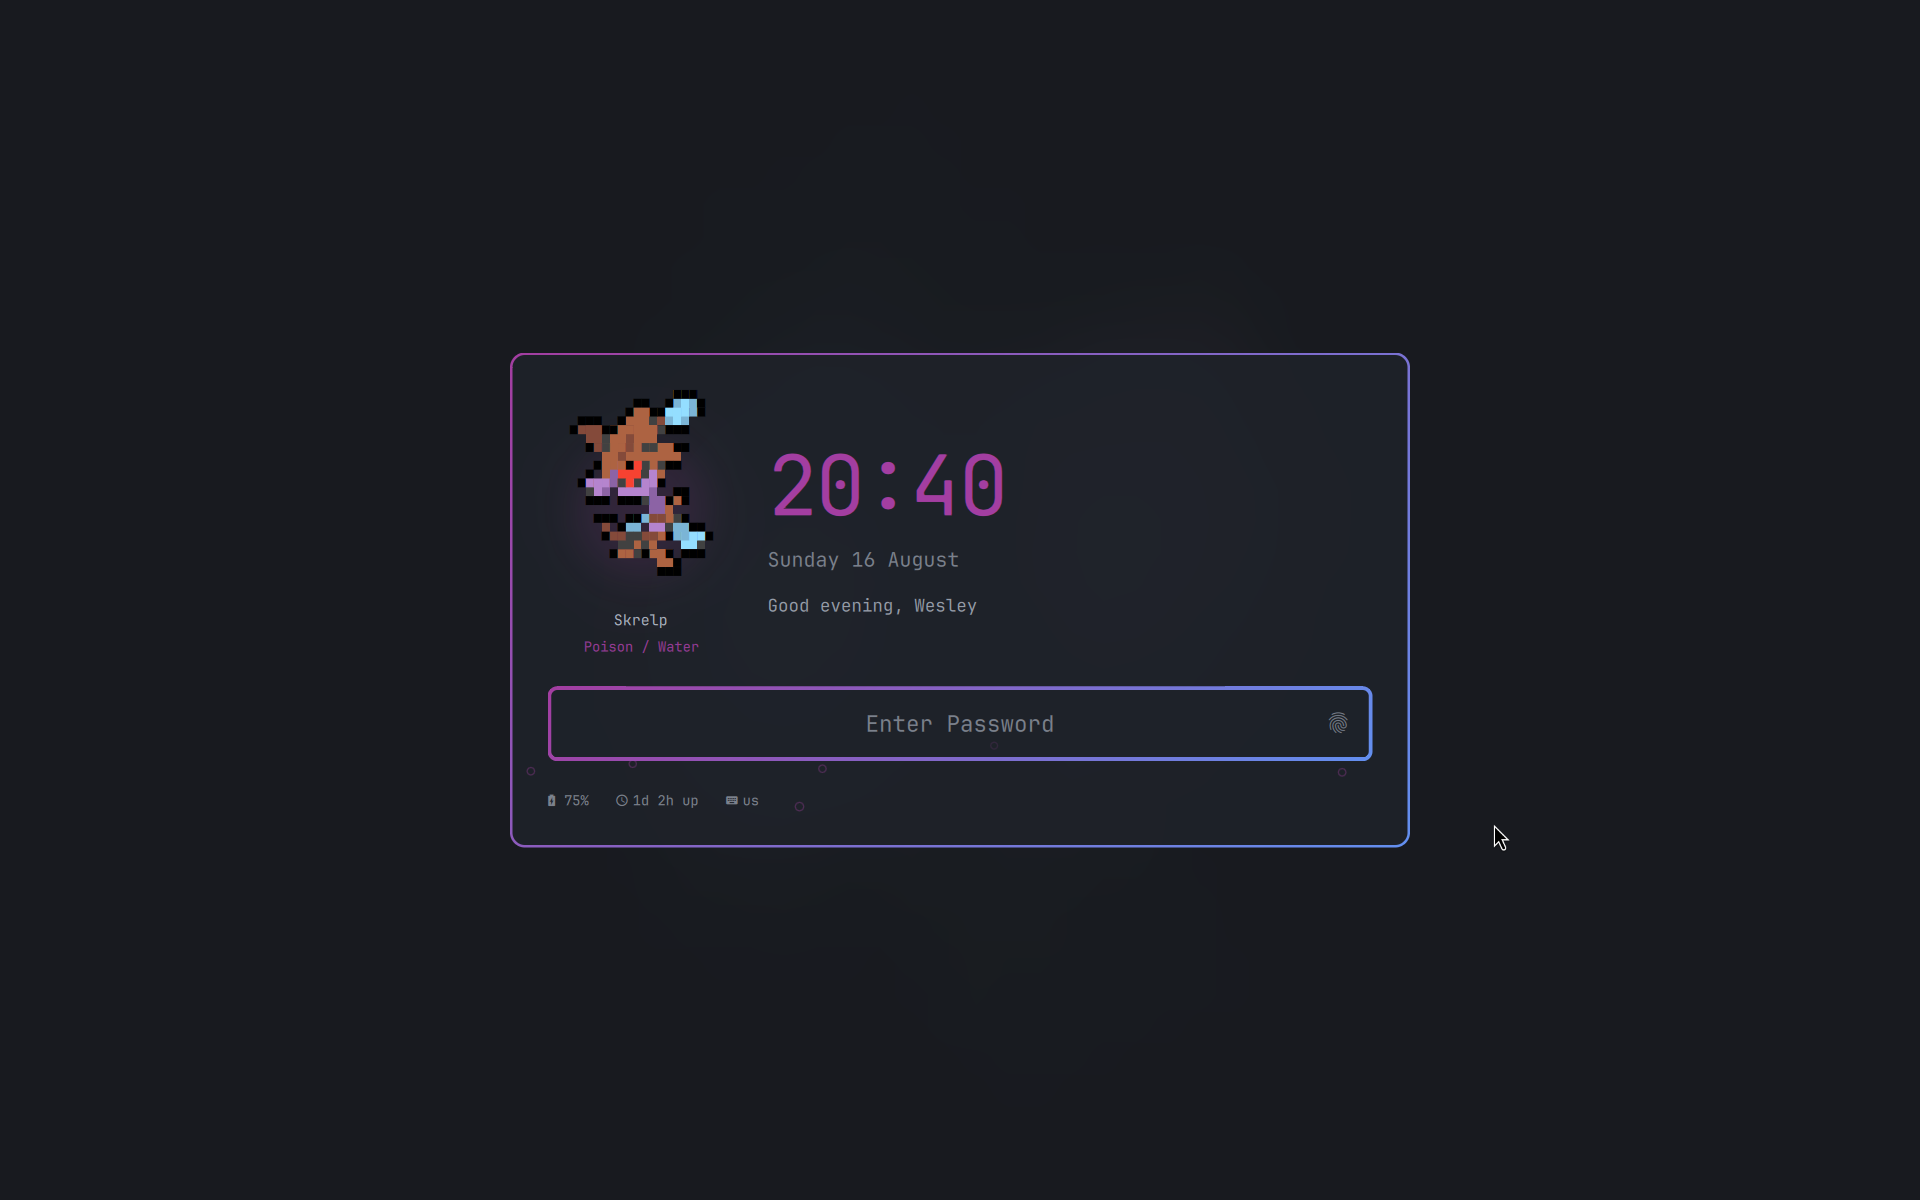
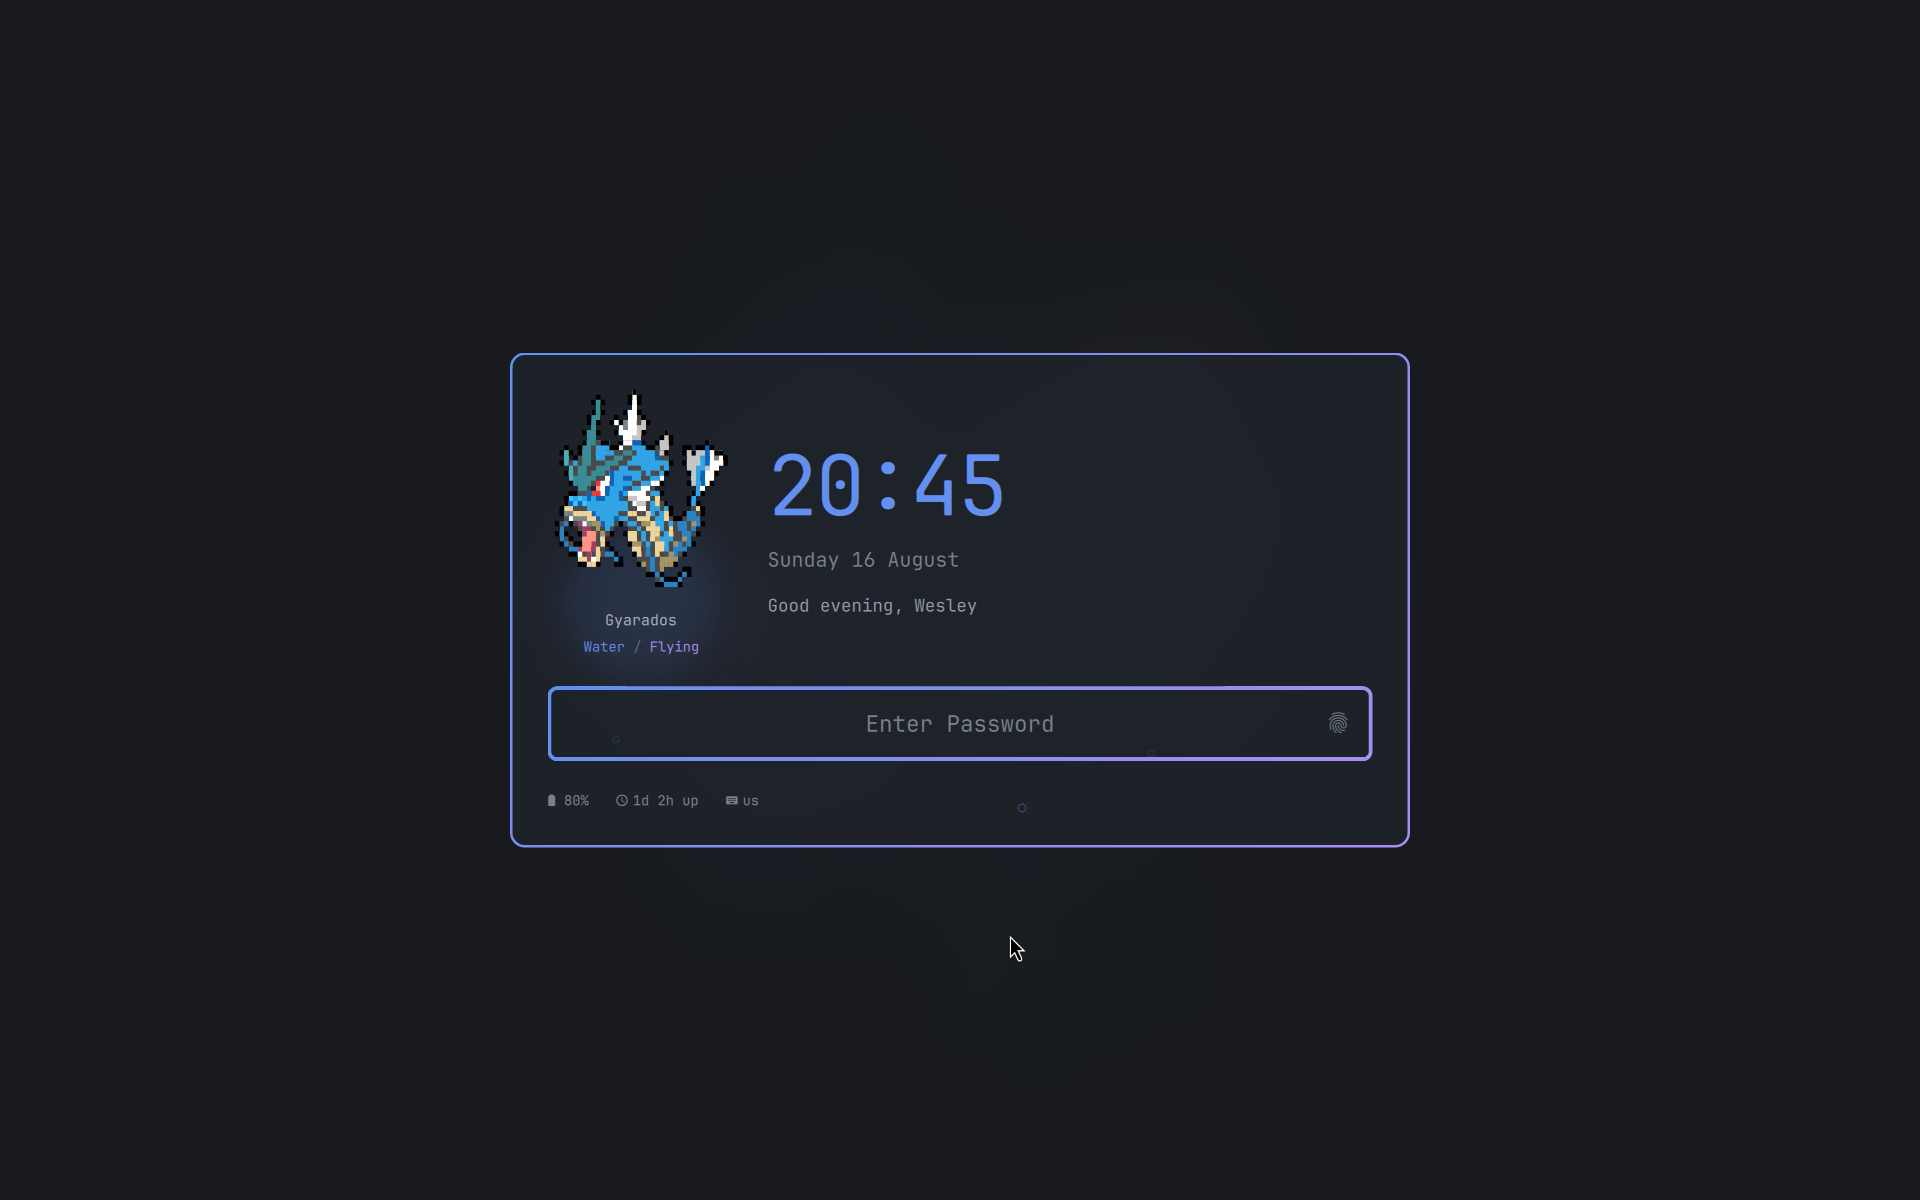
feat(lock): color each type name in its own type color
A dual type printed the whole "Water / Flying" line in the primary
type's accent, which read as one thing. Each name now takes its own
color with a muted separator between them.

diff --git a/LockView.qml b/LockView.qml
@@ -565,14 +565,39 @@ Item {
                 font.pixelSize: Style.font.body
               }
 
-              Text {
+              // Each type in its own color, so a dual type reads as two things
+              // rather than one accent standing in for both.
+              Row {
                 anchors.horizontalCenter: parent.horizontalCenter
-                visible: root.showPokemonLabel && root.typeLabel.length > 0 && root.typeAccents
-                text: root.typeLabel
-                color: root.accentColor
-                font.family: Style.font.family
-                font.pixelSize: root.statusFontSize
-                opacity: 0.9
+                visible: root.showPokemonLabel && root.typeAccents && root.pokemonTypes.length > 0
+                spacing: 0
+
+                Repeater {
+                  model: root.pokemonTypes
+
+                  delegate: Row {
+                    required property int index
+                    required property string modelData
+                    spacing: 0
+
+                    Text {
+                      visible: index > 0
+                      text: " / "
+                      color: root.statusColor
+                      font.family: Style.font.family
+                      font.pixelSize: root.statusFontSize
+                      opacity: 0.7
+                    }
+
+                    Text {
+                      text: modelData.charAt(0).toUpperCase() + modelData.slice(1)
+                      color: Types.color(modelData, root.accentColor)
+                      font.family: Style.font.family
+                      font.pixelSize: root.statusFontSize
+                      opacity: 0.95
+                    }
+                  }
+                }
               }
             }
           }
